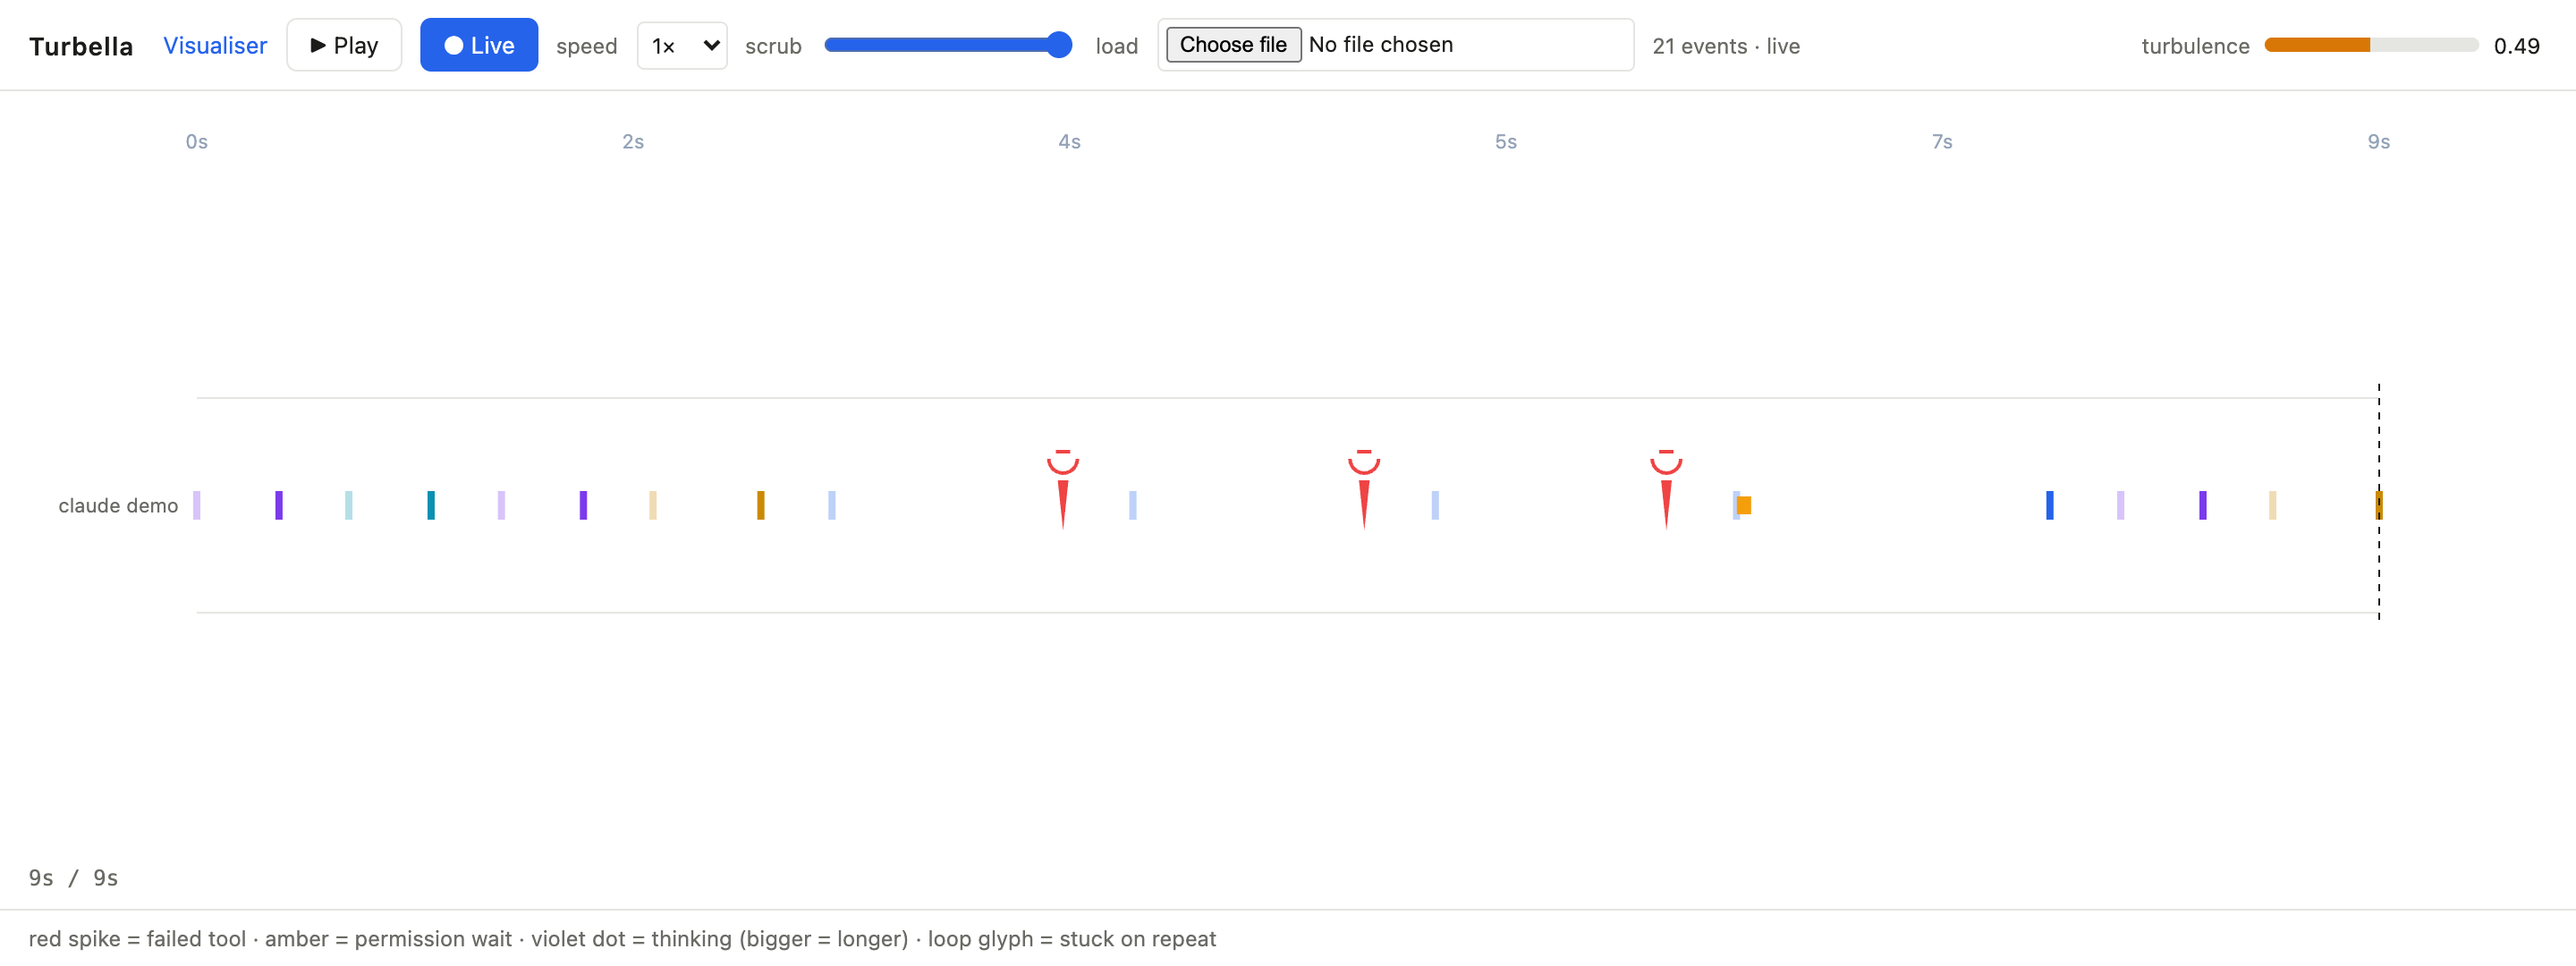
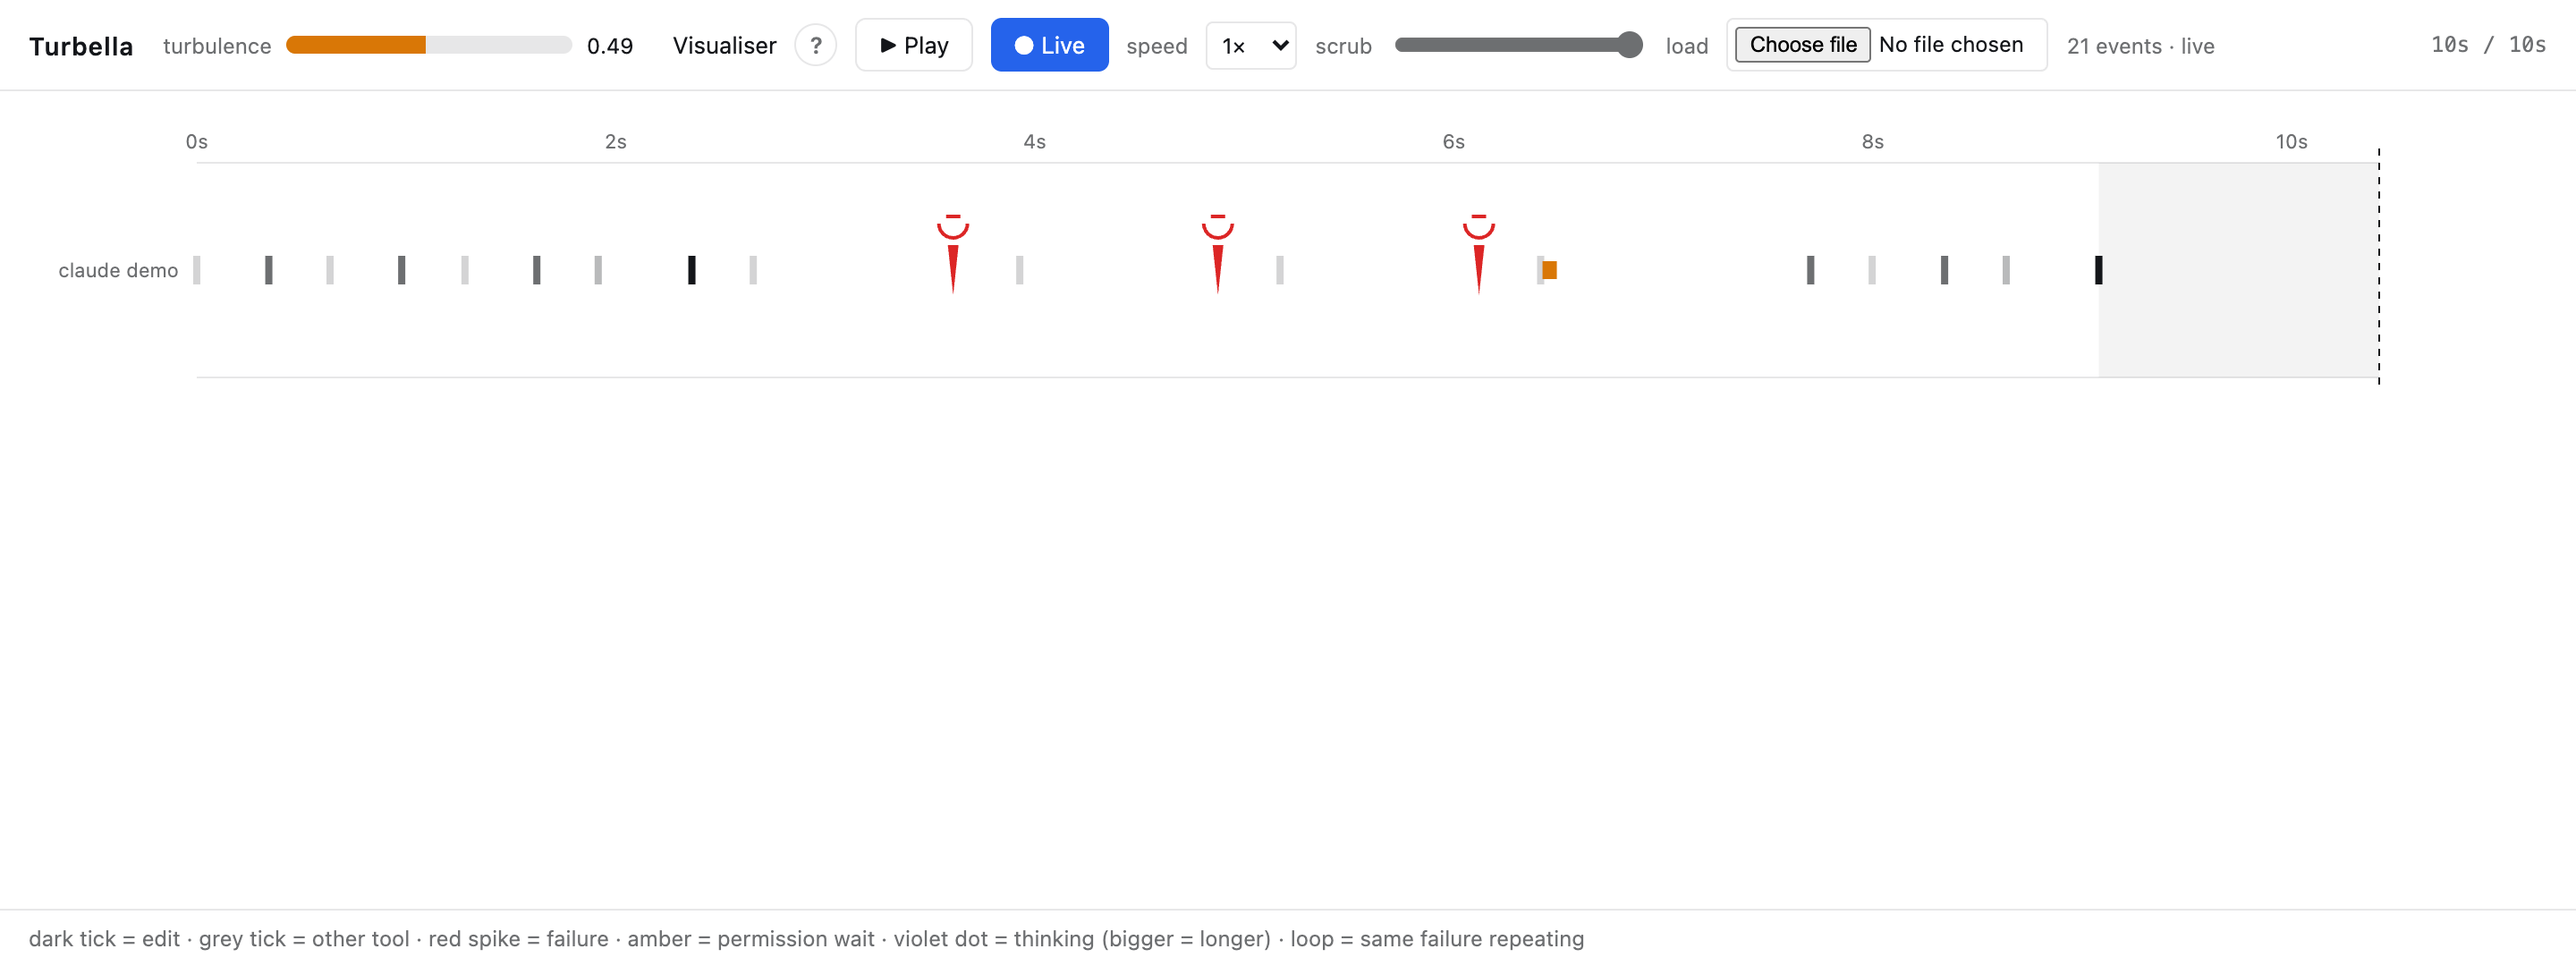
Marketing: a desk of floating windows, the terminal strip, and a new card
marketing/desk.mjs renders each of eight demo sessions' floating-window
page at window size while its events play, places them down the right
edge of an HTML desk beside a terminal under turbella run (a real tmux
capture, colours kept), and writes windows.jpg and strip.png. The social
card now uses the desk; viz.jpg is gone. README: the desk on top, a
'Beside your agents' paragraph with the strip, tick wording for the
Dense timeline, still 120 lines.

diff --git a/marketing/social.html b/marketing/social.html
@@ -2,23 +2,23 @@
 <html lang="en">
 <meta charset="utf-8">
 <title>Turbella social card</title>
-<!-- 1280×640 repo card; marketing/capture.mjs renders it with viz.jpg beside it. -->
+<!-- 1280×640 repo card; marketing/capture.mjs renders it with windows.jpg (from desk.mjs) beside it. -->
 <style>
-  html, body { margin: 0; width: 1280px; height: 640px; overflow: hidden; background: #f7f7f5;
-    font-family: system-ui, -apple-system, sans-serif; color: #1c1c1a; }
+  html, body { margin: 0; width: 1280px; height: 640px; overflow: hidden; background: #f5f6f8;
+    font-family: system-ui, -apple-system, sans-serif; color: #14161a; }
   .card { display: grid; grid-template-columns: 430px 1fr; height: 100%; }
   .words { padding: 150px 0 0 64px; }
   h1 { font-size: 64px; margin: 0 0 24px; letter-spacing: -0.01em; font-weight: 650; }
-  p { font-size: 30px; line-height: 1.3; margin: 0; color: #3a3a36; }
+  p { font-size: 30px; line-height: 1.3; margin: 0; color: rgba(20, 22, 26, 0.7); }
   .shot { position: relative; }
-  .shot img { position: absolute; left: 0; top: 150px; width: 800px; border: 1px solid #e5e5e2;
-    border-radius: 10px; box-shadow: 0 8px 30px rgba(0, 0, 0, 0.08); }
+  .shot img { position: absolute; left: 0; top: 64px; width: 800px; height: 512px; object-fit: cover; object-position: right top;
+    border-radius: 12px; box-shadow: 0 10px 34px rgba(0, 0, 0, 0.18); }
 </style>
 <div class="card">
   <div class="words">
     <h1>Turbella</h1>
-    <p>See what your coding agent is doing while you wait, and when it is stuck.</p>
+    <p>See what your coding agents are doing while you wait, and when one is stuck.</p>
   </div>
-  <div class="shot"><img src="viz.jpg" alt=""></div>
+  <div class="shot"><img src="windows.jpg" alt=""></div>
 </div>
 </html>

diff --git a/README.md b/README.md
@@ -16,7 +16,7 @@
   <img alt="no dependencies" src="https://img.shields.io/badge/npm%20dependencies-0-2563eb?style=flat-square">
 </p>
 
-![The Turbella visualiser: a MilkDrop preset moving to a Claude Code session's tool calls and failures](marketing/viz.jpg)
+![Turbella on a Mac: a terminal running an agent under turbella run, with its strip on the top row, and eight floating windows down the right edge, one per agent session (claude, codex, opencode, pi, omp, hermes, dsh), each with its own picture, gauge and current action. Window frames composed in HTML around real renders.](marketing/windows.jpg)
 
 ## Install
 
@@ -32,29 +32,24 @@
 | **The `turbella` command** | in the clone, `npm link` puts it on your PATH; or run `node bin/turbella` |
 
 Start a session. The first hook starts the Turbella daemon and opens the visualiser at
-`http://127.0.0.1:7377/viz` when no Turbella page is open (`TURBELLA_OPEN=0` turns that
-off). The first event shows within 5 seconds of the first hook.
-
-No config file and no account. To replay a past session, load a Claude Code transcript from
-`~/.claude/projects/` with the timeline's **load** button; **Live** goes back to the agent.
+`http://127.0.0.1:7377/viz` when no page is open (`TURBELLA_OPEN=0` turns that off), within
+5 seconds of the first hook. No config file, no account. To replay a session, load a Claude
+Code transcript from `~/.claude/projects/` with the timeline's **load** button.
 
 ## Why
 
 You wait on an agent for minutes and learn nothing. Is it thinking, retrying the same
 failing command, or blocked on a permission prompt? Turbella shows it while it happens.
 
-Each session gets a lane, and each tool call is a tick coloured by tool. A failure is a
-red spike, and the same failure twice gets a repeat mark. A permission wait is amber; a
-violet dot is thinking, larger for longer. The **turbulence gauge** (0 to 1) adds four
-signals from the last five minutes: failures that repeat an earlier failure, repeated
-edits to one file, the same tool called over and over, and time since the last
-successful tool call. That last one rises through a silent wait and reaches its full
-share after a minute, because silence is part of being stuck.
+Each session gets a lane. Each tool call is a tick, dark for edits and grey for the rest; a
+failure is a red spike, and the same failure twice gets a repeat mark. A permission wait is
+amber; a violet dot is thinking, larger for longer. The **turbulence gauge** (0 to 1) adds
+four signals from the last five minutes: repeated failures, repeated edits to one file, the
+same tool over and over, and time since the last successful call, which rises through a
+silent wait because silence is part of being stuck. It borrows from "Fractal basins trap
+latent reasoning" (arXiv:2609.04963): stuck reasoning keeps switching between near answers.
 
-The gauge borrows from "Fractal basins trap latent reasoning" (arXiv:2609.04963): reasoning
-stuck near almost-right answers keeps switching, and the switching measures how stuck it is.
-
-## Two views
+## Views
 
 **The visualiser** (`/viz`) plays your agent like music. Every tool call is a pluck, a
 failure is a bass hit, thinking is a slow swell and a permission wait is a held note; the
@@ -63,6 +58,11 @@ another of about a hundred MilkDrop presets, run by [Butterchurn](https://github
 Nothing plays aloud. It needs WebGL 2; without it the page sends you to the timeline.
 
 **The timeline** (`/`) is the plain record: what happened, when, and how often it repeated.
+
+**Beside your agents** (macOS): `turbella overlay` opens a small always-on-top window per agent
+session, and `turbella run <agent>` pins that agent's own gauge to the terminal's top row.
+
+![A terminal under turbella run: the strip on the top row shows the gauge at 0.40 and Bash running for 7 s above failing test output](marketing/strip.png)
 
 ![The Turbella timeline: one Claude Code lane with tool ticks, three identical test failures marked as a repeat, a permission wait in amber, and the turbulence gauge at 0.49](marketing/hero.png)
 
